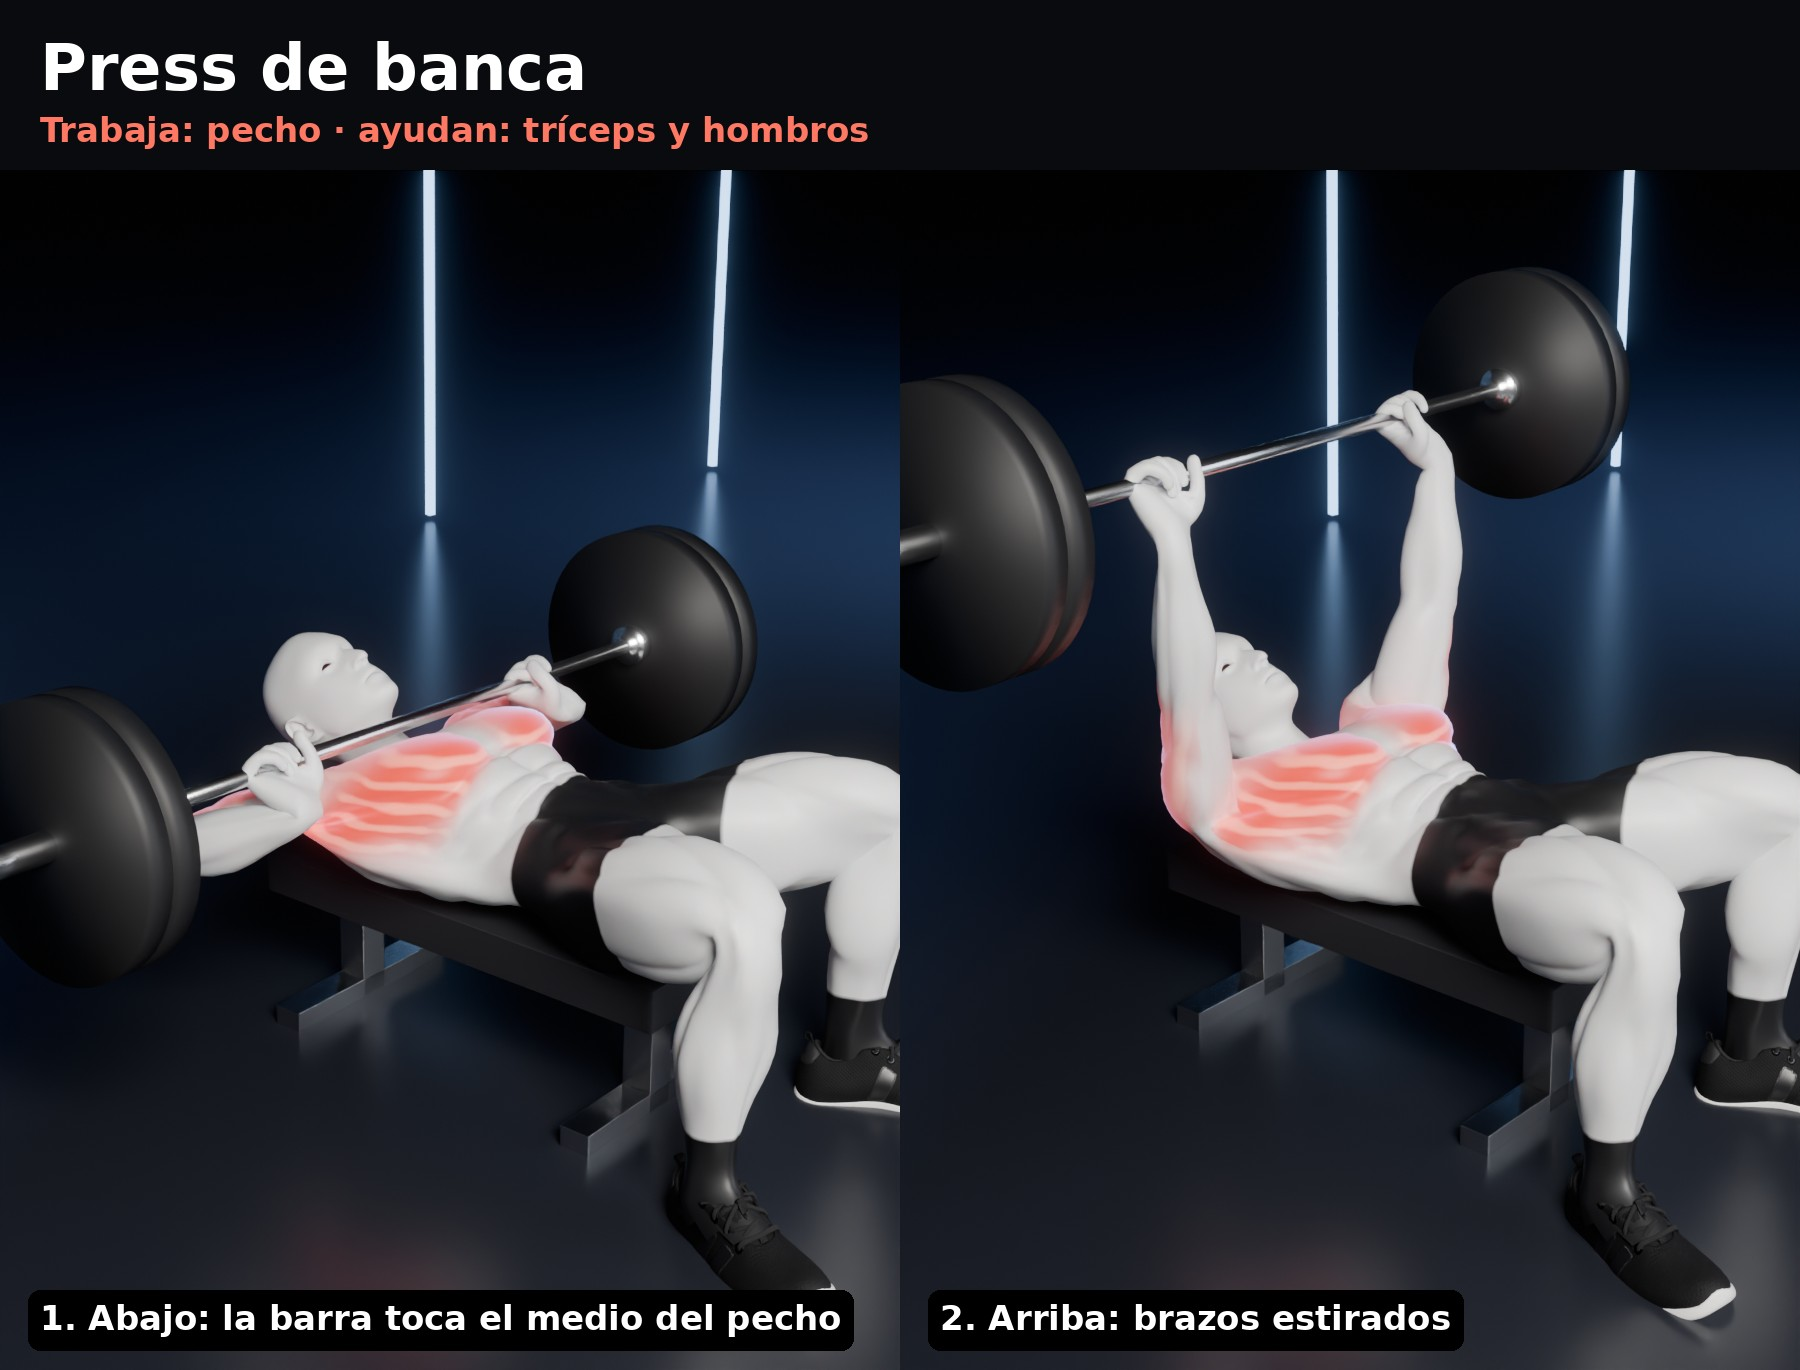
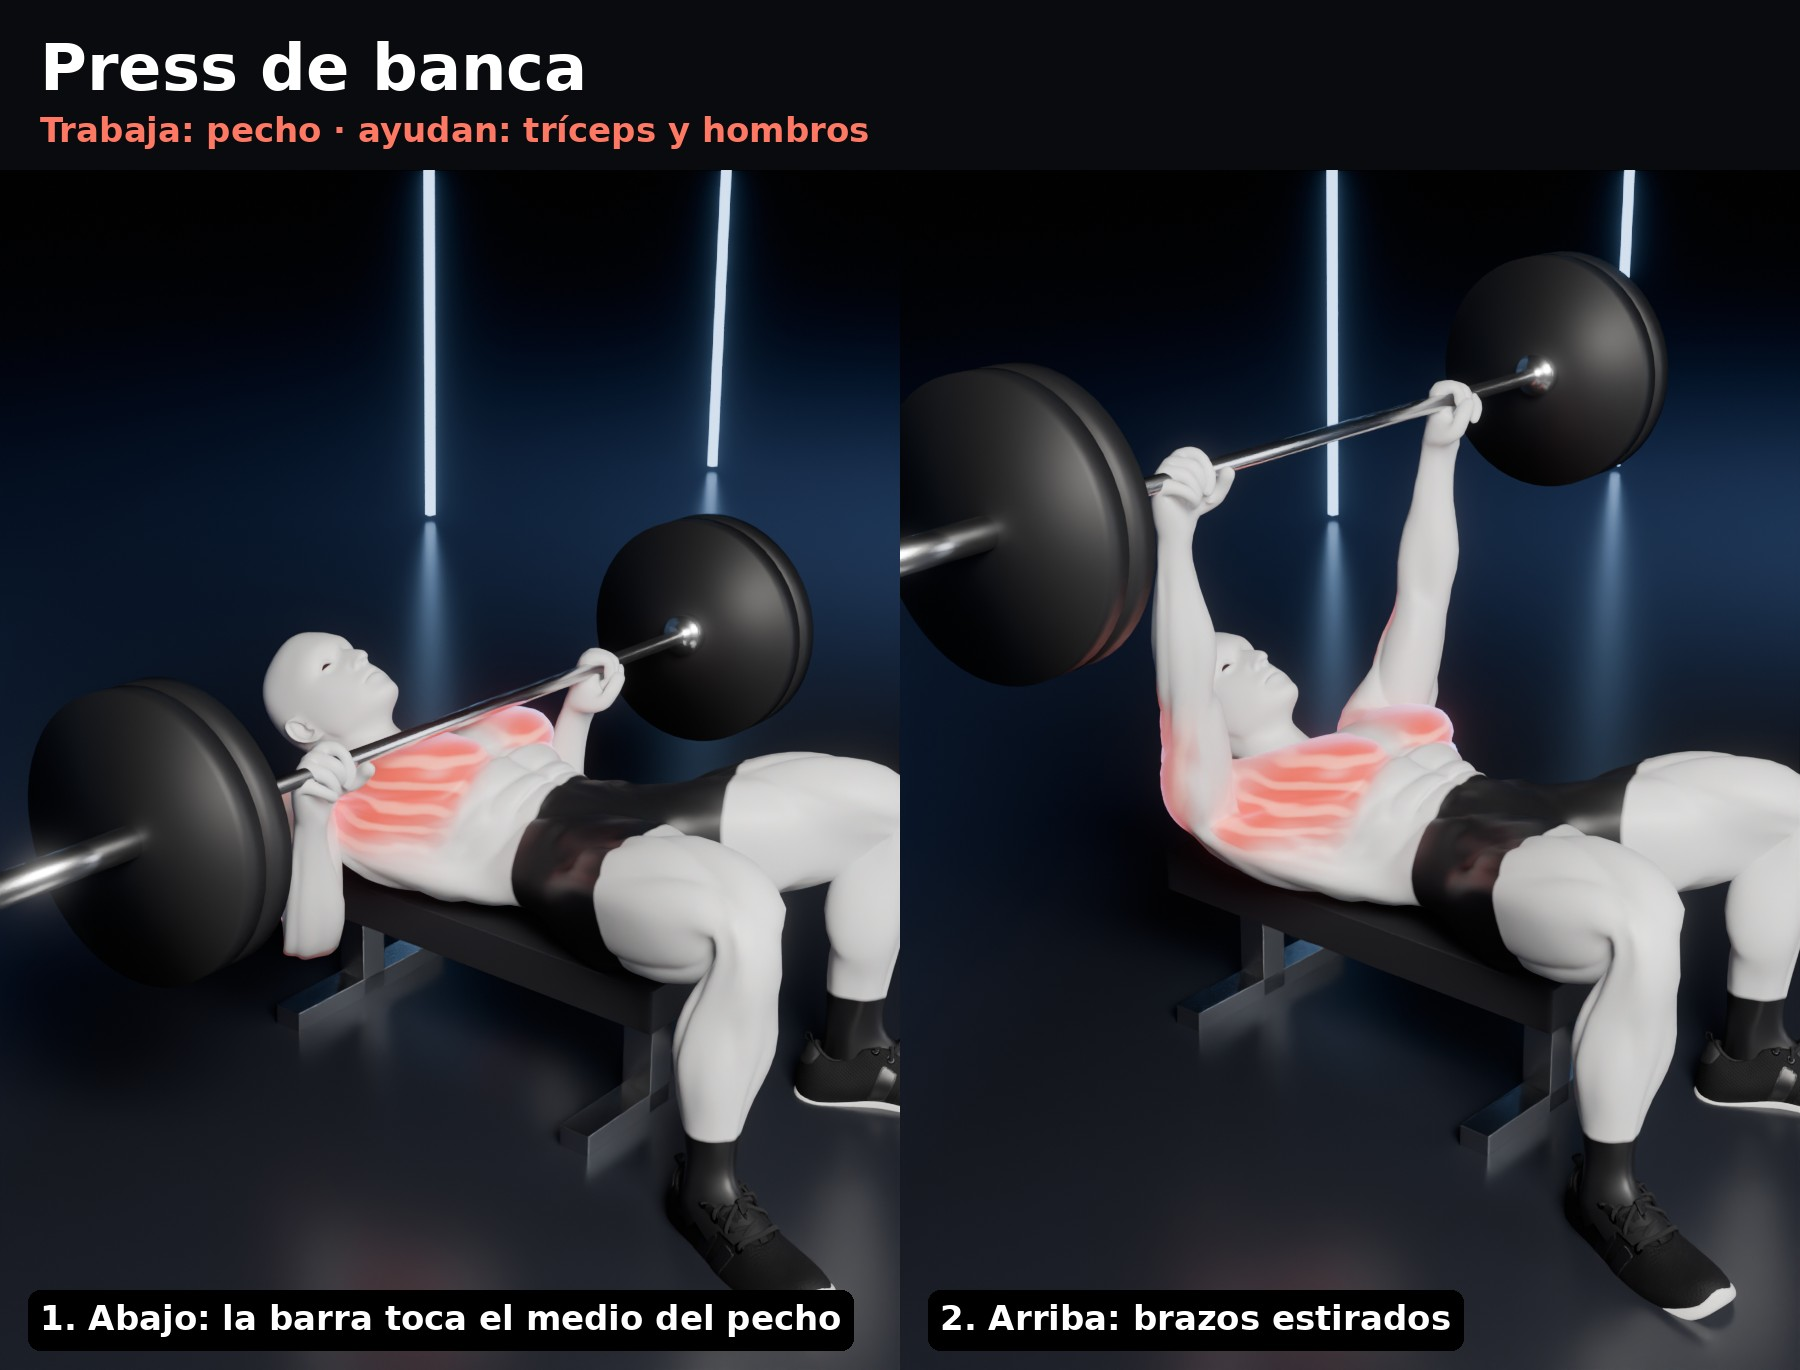
Press de banca: codos debajo de la barra y muñeca derecha
Abajo el antebrazo queda vertical (codo bajo la barra, brazo abierto
unos 45-60°), la muñeca sigue al antebrazo y los dedos copian la forma
de la mano del atleta relativa a su mano.

Claude-Session: https://claude.ai/code/session_012EajVdEJ91LsYJUKa3b1Ex

Changed region(s): [[0.0, 0.3679, 0.4667, 0.7051], [0.4978, 0.1839, 0.9333, 0.5212], [0.7467, 0.4292, 0.8089, 0.5212]]

diff --git a/tools/blender/pose_rk.py b/tools/blender/pose_rk.py
@@ -2,6 +2,7 @@
 import bpy, mathutils, math, numpy as np
 V3=mathutils.Vector
 BAJAR={}
+CODO_VERTICAL=[False]
 RK=np.load(cfg['rk_npz']); RKn=list(RK['nombres']); RKt=list(RK['tips']); RKf=list(RK['frames'])
 def pose_rk(arm, fr, escala, zpiso):
     i=RKf.index(min(RKf,key=lambda x:abs(x-fr)))
@@ -43,17 +44,30 @@ def pose_rk(arm, fr, escala, zpiso):
         T_=Sm+(Hr-Sr)*k_+BAJAR.get(L,V3())
         dT=(T_-Sm); dl=min(dT.length,(a_+b_)*.999); u=dT.normalized()
         plano=(Er-Sr)-u*(Er-Sr).dot(u)
+        if CODO_VERTICAL[0]:
+            # antebrazo vertical: el codo va lo más cerca posible de quedar justo debajo de la mano
+            D_=(Sm+u*min(dT.length,(a_+b_)*.999))-V3((0,0,b_))-Sm
+            plano=D_-u*D_.dot(u)
         if plano.length<1e-6: plano=V3((0,0,-1))
         plano.normalize()
         x=(a_*a_-b_*b_+dl*dl)/(2*dl); h=math.sqrt(max(a_*a_-x*x,0)); E_=Sm+u*x+plano*h; T_=Sm+u*dl
         apuntar(L+'Arm',E_-Sm,T_-E_,lambda L=L: Wt(L+'ForeArm')-W(L+'ForeArm'))
         palma=lambda L=L: W(L+'HandIndex1')-W(L+'HandPinky1')
         apuntar(L+'ForeArm',T_-E_,P(L+'Finger2Proximal')-P(L+'Finger5Proximal'),palma)
-        apuntar(L+'Hand',P(L+'Finger3Proximal')-P(L+'Hand'),P(L+'Finger2Proximal')-P(L+'Finger5Proximal'),palma)
+        if CODO_VERTICAL[0]:
+            dfa=(T_-E_).normalized(); apuntar(L+'Hand',dfa,P(L+'Finger2Proximal')-P(L+'Finger5Proximal'),palma)
+        else:
+            apuntar(L+'Hand',P(L+'Finger3Proximal')-P(L+'Hand'),P(L+'Finger2Proximal')-P(L+'Finger5Proximal'),palma)
+        # dedos: la forma de la mano del atleta (relativa a su mano), puesta en la mano del cuerpo nuevo
+        def marco(y,x):
+            y=y.normalized(); x=(x-y*x.dot(y)).normalized(); return mathutils.Matrix((x,y,x.cross(y))).transposed()
+        Mr=marco(P(L+'Finger3Proximal')-P(L+'Hand'),P(L+'Finger2Proximal')-P(L+'Finger5Proximal'))
+        Mm=marco(W(L+'HandMiddle1')-W(L+'Hand'),W(L+'HandIndex1')-W(L+'HandPinky1'))
+        rel=lambda v: Mm@(Mr.transposed()@v)
         for dn,f in dedos.items():
             if dn=='Thumb': cad=[f'{L}Finger1Metacarpal',f'{L}Finger1Proximal',f'{L}Finger1Distal',f'{L}Finger1Tip']
             else: cad=[f'{L}Finger{f}Proximal',f'{L}Finger{f}Medial',f'{L}Finger{f}Distal',f'{L}Finger{f}Tip']
-            for k in range(3): apuntar(f'{L}Hand{dn}{k+1}',P(cad[k+1])-P(cad[k]))
+            for k in range(3): apuntar(f'{L}Hand{dn}{k+1}',rel(P(cad[k+1])-P(cad[k])))
         apuntar(L+'UpLeg',P(L+'Shin')-P(L+'Thigh'))
         apuntar(L+'Leg',P(L+'Foot')-P(L+'Shin'))
         apuntar(L+'Foot',P(L+'Toe')-P(L+'Foot'))

diff --git a/tools/blender/escena.py b/tools/blender/escena.py
@@ -272,7 +272,7 @@ if cfg.get('rk_npz'):
     exec(open(cfg['pose_rk']).read())
     col=bpy.data.collections.new('aparatos'); sc.collection.children.link(col)
     for i,fr in enumerate(cfg['rk_cuadros']):
-        BAJAR.clear(); P=pose_rk(arm,fr,cfg.get('rk_escala',1.06),zpiso)
+        BAJAR.clear(); CODO_VERTICAL[0]=i in cfg.get('codo_vertical',[]); P=pose_rk(arm,fr,cfg.get('rk_escala',1.06),zpiso)
         gL=agarre(arm,'Left'); gR=agarre(arm,'Right'); cen=(gL+gR)/2; eje=(gL-gR).normalized()
         if i in cfg.get('toca_pecho',[]) and cfg.get('hacia_pies',0):
             mw_=arm.matrix_world; pb_=arm.pose.bones; ej_=(mw_@pb_['mixamorig:Head'].head-mw_@pb_['mixamorig:Hips'].head); ej_.z=0; ej_.normalize()
